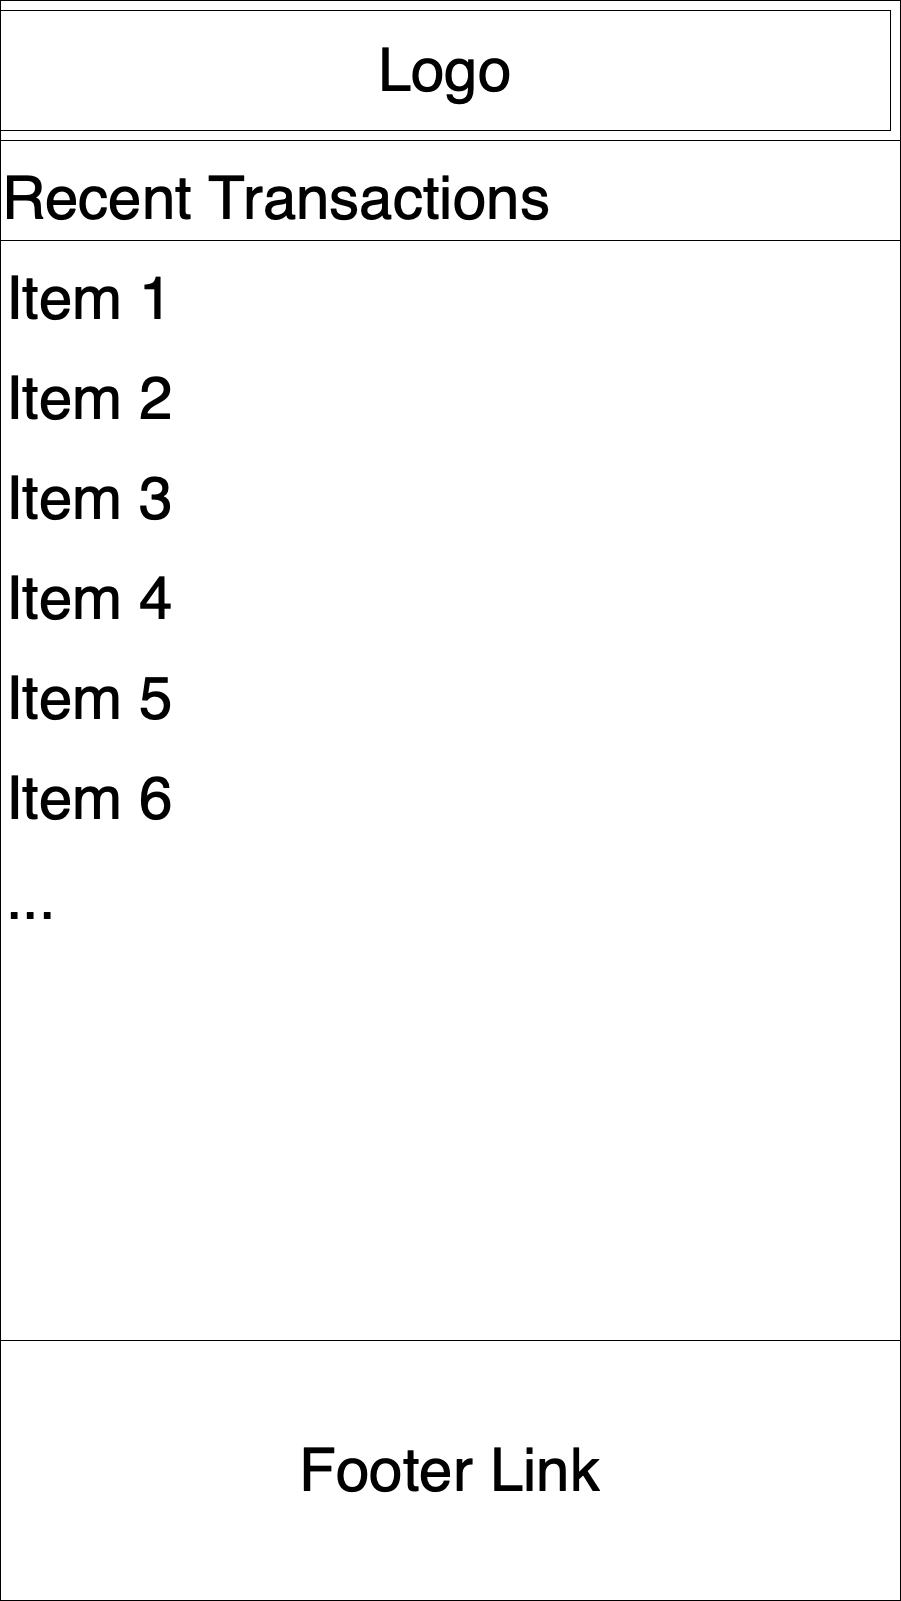
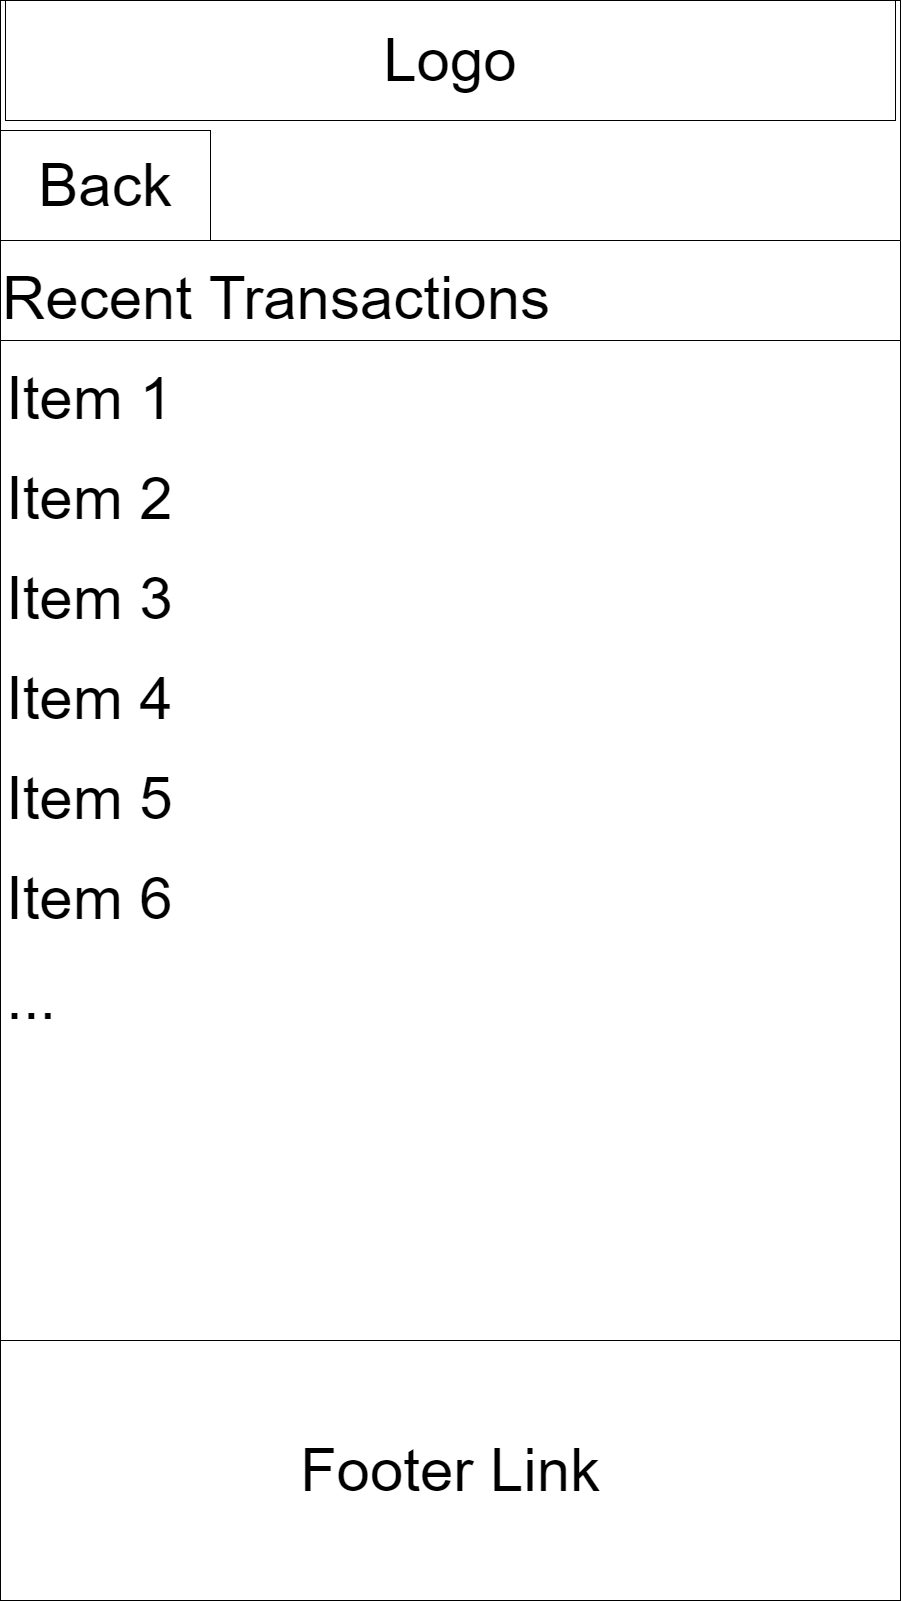
Fixed Account Book bug

diff --git a/README.md b/README.md
@@ -52,17 +52,30 @@
 - **Recent Record**:
 <img src=".\ux-design\AccountBook_recent_record.png" width="30%" />
 
-1. **Click** "Logo" to go back to "Account Book Main Page"
-2. List all the records, from more recent to past.
+1. **Click** "Logo" to go back to "Home Page"
+2. **Click** "Back" to go back to "Account Book Main Page"
+3. List all the records, from more recent to past.
 
 - **Word cloud Overview**
 <img src=".\ux-design\AccountBook_classified_detail.png" width="30%" />
 
-1. **Click** "Logo" to go back to "Account Book Main Page"
-2. List all the records in such category
-3. Click "Name", "Amount"... to sort by that
-4. **Click** "Edit" to allow direct edit of any records, on the same page.
+1. **Click** "return" to go back to "Account Book Main Page"
+2. **Click** "Logo" to go back to "Home Page"
+3. List all the records in such category
+4. Click "Name", "Amount"... to sort by that
+5. **Click** "Edit" to allow direct edit of any records, on the same page.
 
 ### Prototype
 This is the link to the web of the prototype.
 https://lifenote.invisionapp.com/overview/LifeNote-ckuud9mdb0eua0183bsvh03cf/screens
+
+### Contribute
+
+Product Owner: Letian Ye
+
+App Map:  Letian Ye
+Home Page:  Letian Ye
+Diary related pages: Susan Liu
+Account book related pages: Yaolin Zhang, Zhuofeng Wang, Yiming Yu
+Prototype: Yaolin Zhang
+README: Letian Ye
